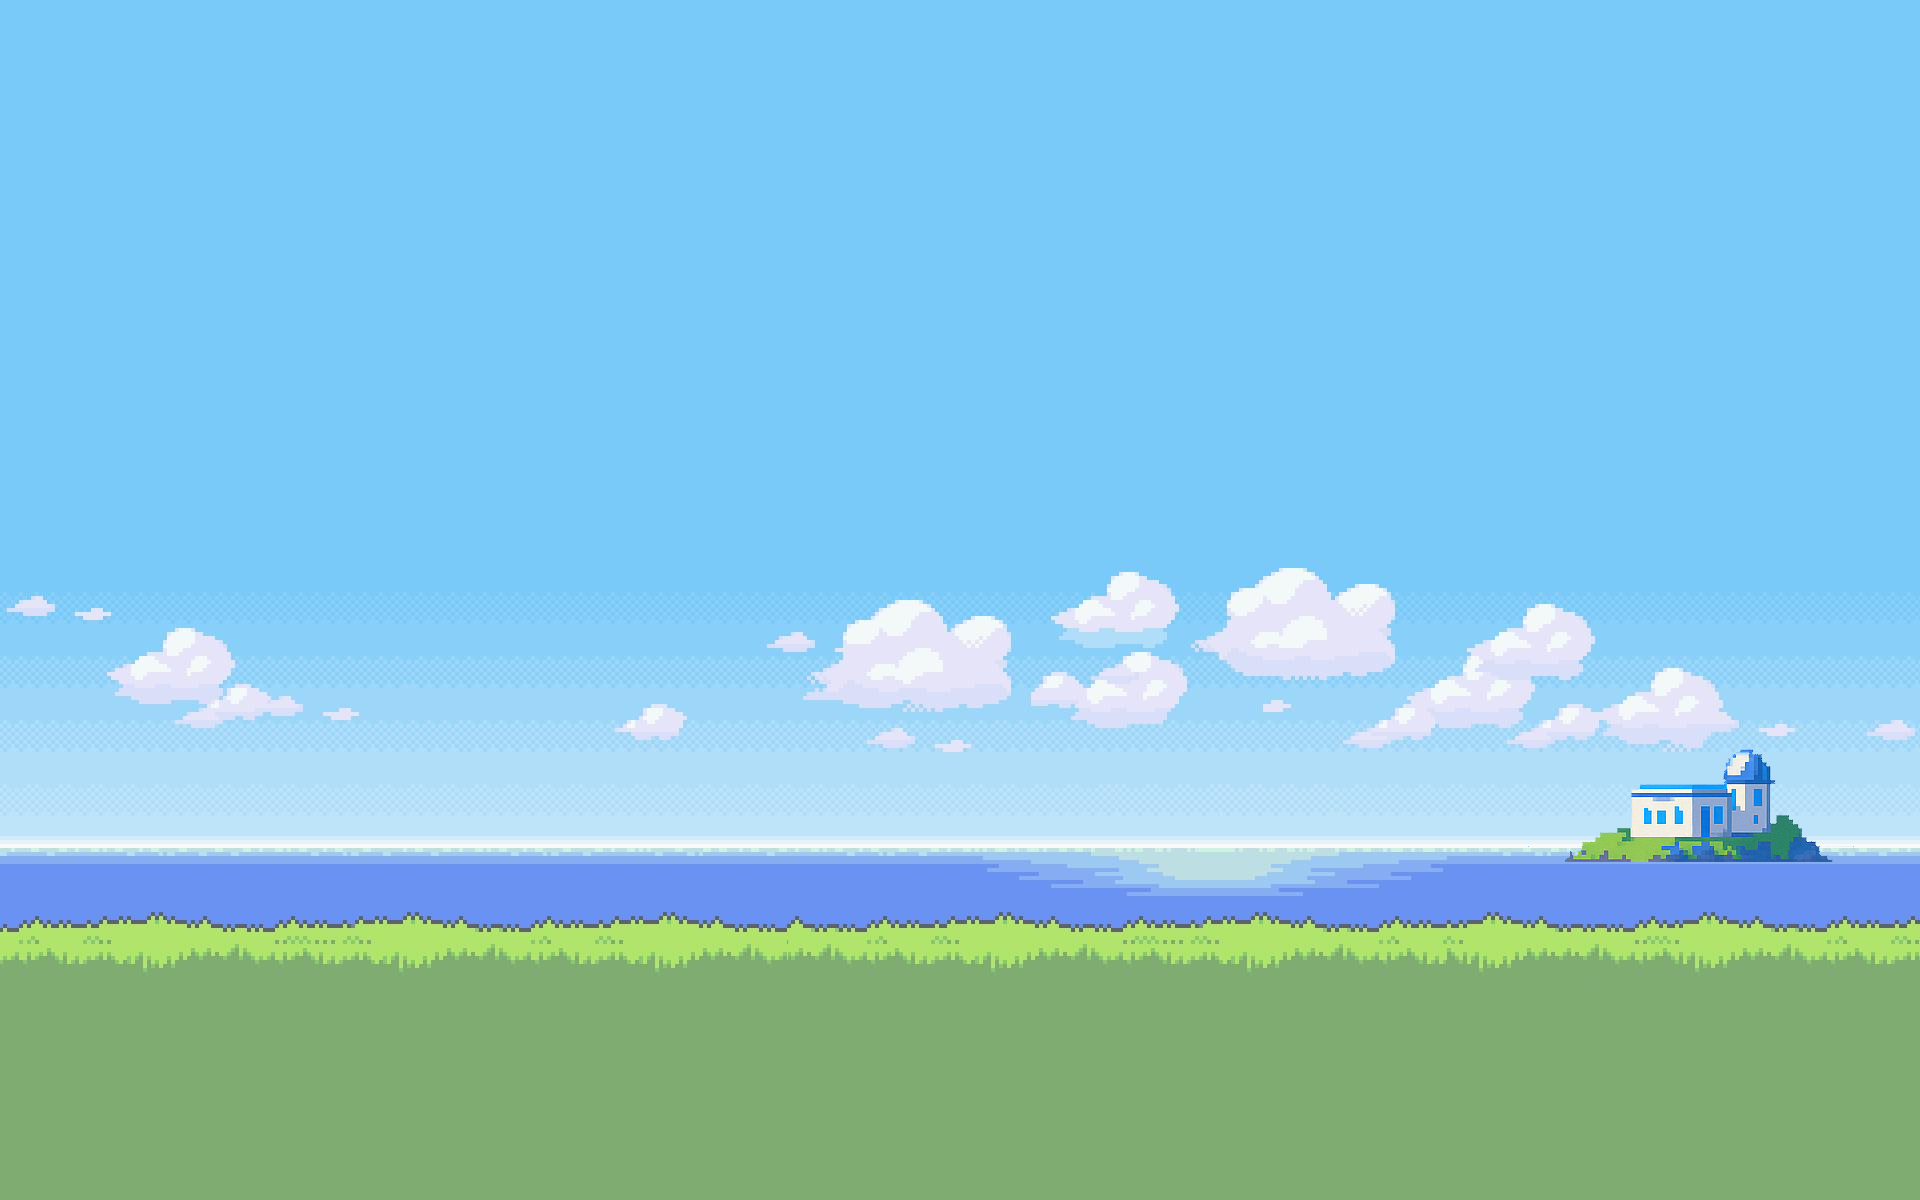
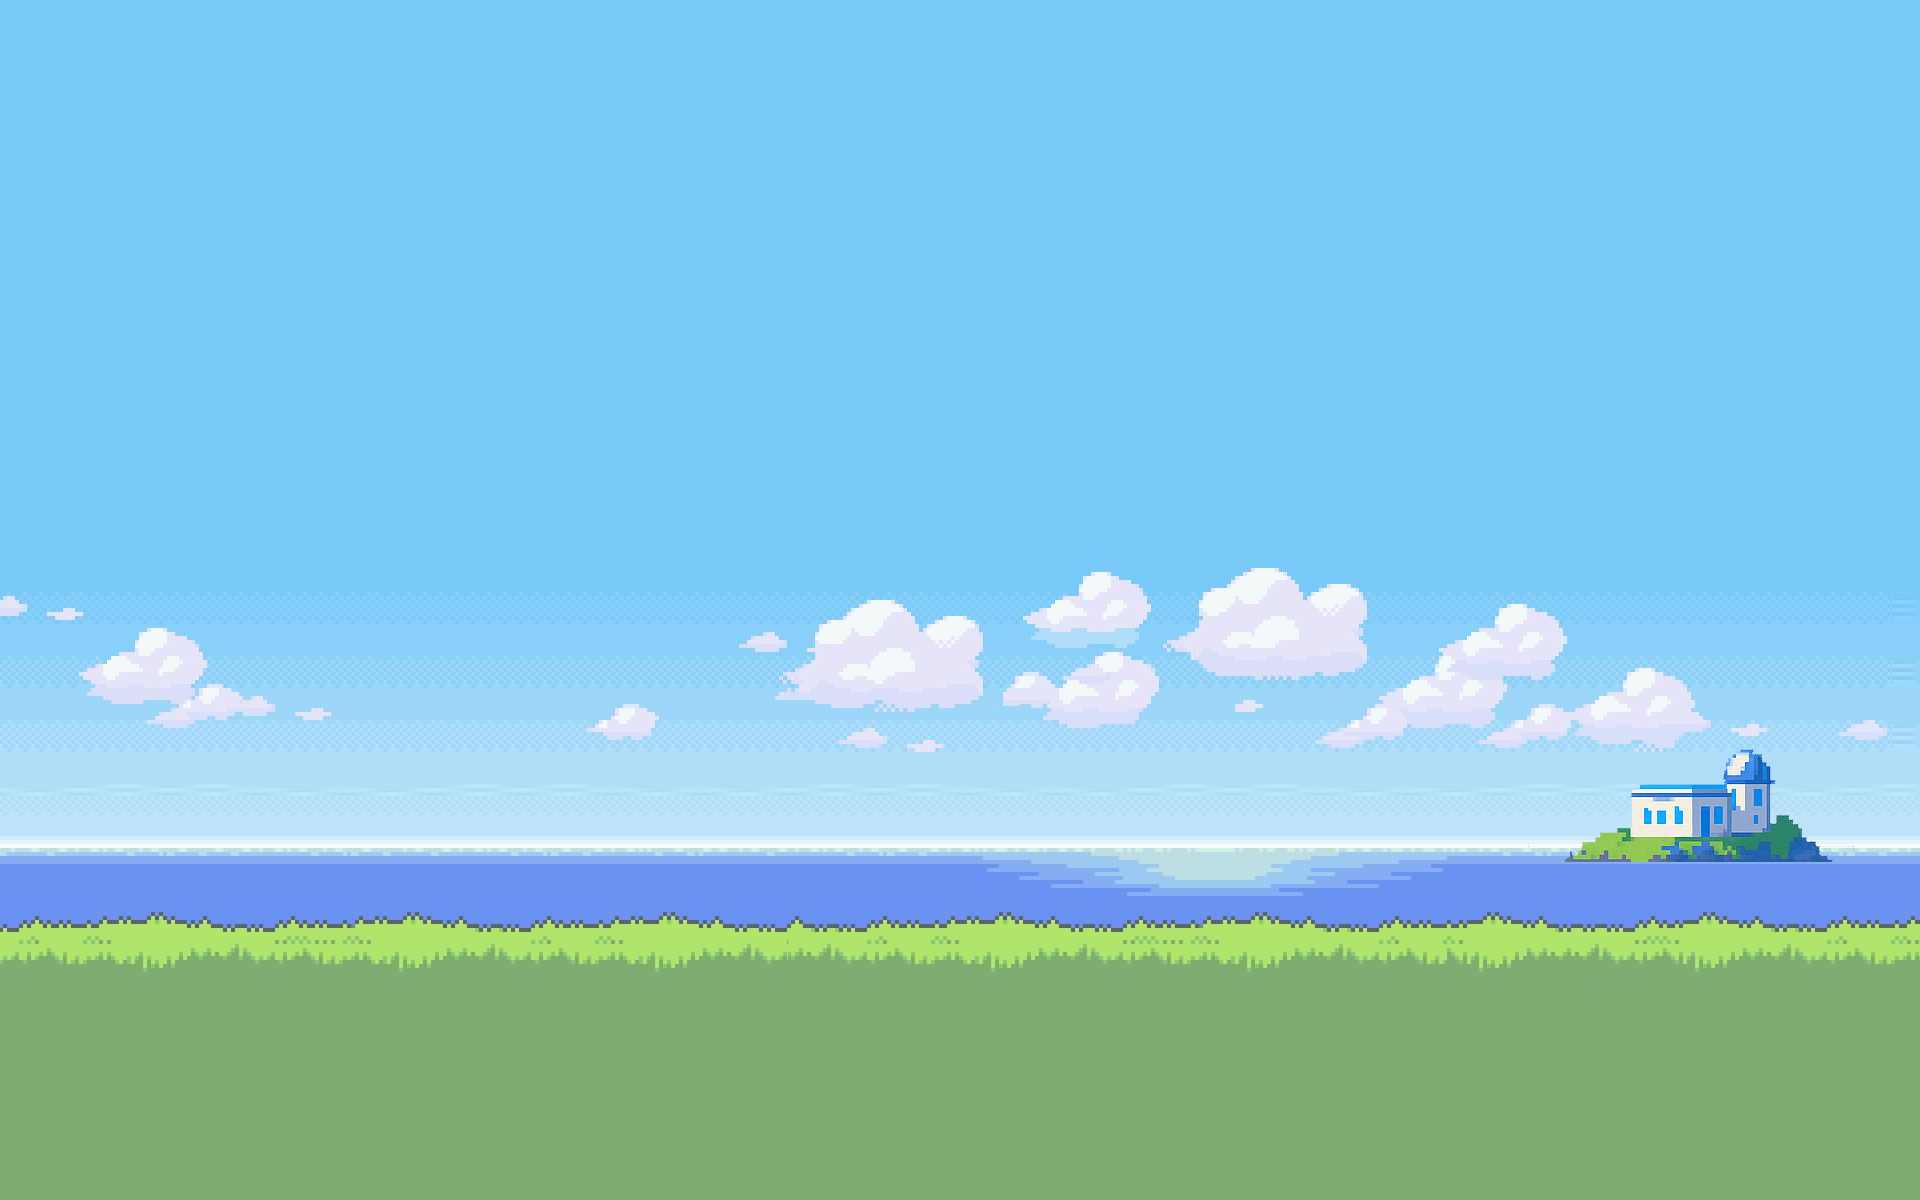
Style: title animation

diff --git a/src/js/animation.js b/src/js/animation.js
@@ -22,7 +22,7 @@ function preloadCloudFrames(frameCount, basePath) {
 
 function startCloudAnimation() {
   const root = document.documentElement;
-  const frameCount = 4;
+  const frameCount = 3;
   const basePath = "../assets/images/background/title_";
   let frameIdx = 0;
   let frames = [];
@@ -38,7 +38,7 @@ function startCloudAnimation() {
         root.style.setProperty("--img-menu-bg", `url('${img.src}')`);
       }
       frameIdx = (frameIdx + 1) % frameCount;
-    }, 500);
+    }, 600);
   });
 }
 
